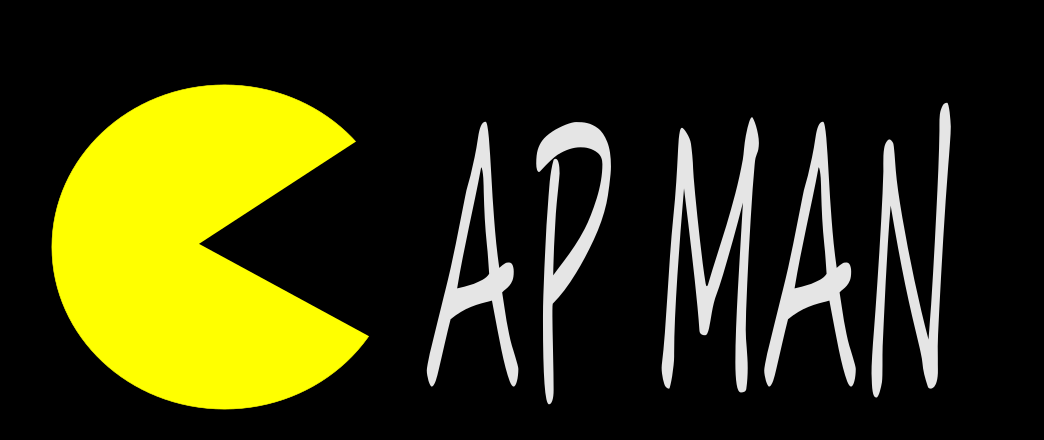
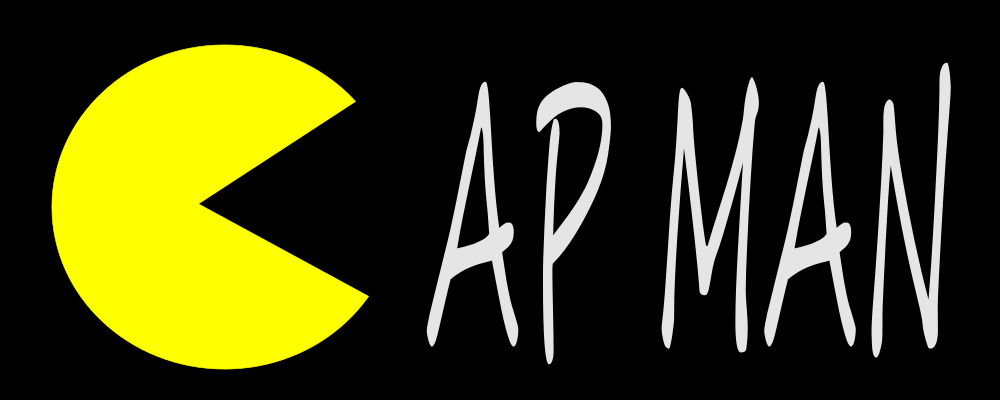
Changes in displaying starting menu and click escape button to go back

diff --git a/src/main.py b/src/main.py
@@ -25,7 +25,7 @@ Win.MARGIN_TOP = Win.GRID_SIZE * round(Win.MARGIN_TOP / Win.GRID_SIZE) - Win.GRI
 Win.screen = pygame.display.set_mode((screen_info.current_w, screen_info.current_h), pygame.FULLSCREEN)
 clock = pygame.time.Clock()
 
-menu = pygame.image.load('../assets/menu/capmantitle.png')
+title = pygame.image.load('../assets/menu/capmantitle.png')
 game_over = pygame.image.load('../assets/menu/game_over.png')
 play_button = pygame.image.load('../assets/menu/play_button.png')
 settings_button = pygame.image.load('../assets/menu/settings_button.png')
@@ -183,7 +183,7 @@ def end_lvl(is_win):
                 pygame.quit()
                 run = False
             if event.type == pygame.KEYDOWN:
-                if event.key == ord('q') or event.key == pygame.K_SPACE or event.key == pygame.K_RETURN or event.key == pygame.K_KP_ENTER or event.key == ord('p'):
+                if event.key == ord('q') or event.key == pygame.K_SPACE or event.key == pygame.K_RETURN or event.key == pygame.K_KP_ENTER or event.key == pygame.K_ESCAPE:
                     run = False
             if event.type == pygame.MOUSEBUTTONDOWN:
                 run = False
@@ -194,7 +194,6 @@ def main_loop():
     ghostScared.set_volume(0)
     soundtrack.set_volume(Settings.volume)
     soundtrack.play(-1)
-    run = True
     lvl.reset()
     points.reset_points(lvl)
     player.rect.center = (Win.MARGIN_LEFT+Win.GRID_SIZE*12.5, Win.MARGIN_TOP+Win.GRID_SIZE*14.5)
@@ -203,13 +202,28 @@ def main_loop():
     Score.score = 0
     Score.bonus = 0
     Score.lives = 3
+
+    width = screen_info.current_w
+    height = screen_info.current_h
+    if width*9 <= height*16:
+        height = width * 9 // 16
+    else:
+        width = height * 16 // 9
+    unit = width//16
+    left_margin = (screen_info.current_w - width) / 2
+    global title, play_button, settings_button, credits_button
+    title = pygame.transform.scale(title, [unit*15//2, unit*3])
+    play_button = pygame.transform.scale(play_button, [unit*4, unit])
+    settings_button = pygame.transform.scale(settings_button, [unit*4, unit])
+    credits_button = pygame.transform.scale(credits_button, [unit*4, unit])
+
+    run = True
     while run:
         Win.screen.fill(Win.BGCOLOR)
-        Win.screen.blit(menu, ((screen_info.current_w - menu.get_width()) // 2, 0))
-        Win.screen.blit(play_button, ((screen_info.current_w - play_button.get_width()) // 2, menu.get_height()))
-        Win.screen.blit(settings_button, ((screen_info.current_w - settings_button.get_width()) // 2, menu.get_height() + play_button.get_height()))
-        Win.screen.blit(credits_button, ((screen_info.current_w - credits_button.get_width()) // 2, menu.get_height() + play_button.get_height() + settings_button.get_height()))
-        ICON_SIZE = (screen_info.current_h - 365) // 4 + 70
+        Win.screen.blit(title, title.get_rect(center=(left_margin+unit*8, unit*3//2)))
+        button_play = Win.screen.blit(play_button, play_button.get_rect(center=(left_margin+unit*8, unit*4)))
+        button_settings = Win.screen.blit(settings_button, settings_button.get_rect(center=(left_margin+unit*8, unit*6)))
+        button_credits = Win.screen.blit(credits_button, credits_button.get_rect(center=(left_margin+unit*8, unit*8)))
 
         pygame.display.update()
         for event in pygame.event.get():
@@ -228,26 +242,21 @@ def main_loop():
                 if event.key == ord('s'):
                     Settings.settings([soundtrack, death_sound])
                 
-                if event.key == ord('q'):
+                if event.key == ord('q') or event.key == pygame.K_ESCAPE:
                     pygame.quit()
                     run = False
 
             if event.type == pygame.MOUSEBUTTONUP:
                 pos = pygame.mouse.get_pos()
-                x = pos[0]
-                y = pos[1]
-                if (x > screen_info.current_w // 3 and x < (screen_info.current_w * 2) // 3):
-                    name_bar_h = (screen_info.current_h * 2) // 5
-                    remaining_h = screen_info.current_h - name_bar_h
-                    if (y < menu.get_height() + play_button.get_height()):
+                if button_play.collidepoint(pos):
+                    lvl_number=options.drawmaps()
+                    while lvl_number!=-1:
+                        game_loop(lvl_number)
                         lvl_number=options.drawmaps()
-                        while lvl_number!=-1:
-                            game_loop(lvl_number)
-                            lvl_number=options.drawmaps()
-                    elif (y < menu.get_height() + play_button.get_height() + settings_button.get_height()):
-                        Settings.settings([soundtrack, death_sound])
-                    else:
-                        Credits.credits()
+                elif button_settings.collidepoint(pos):
+                    Settings.settings([soundtrack, death_sound])
+                elif button_credits.collidepoint(pos):
+                    Credits.credits()
 
 def game_loop(start_lvl):
     main = True
@@ -293,7 +302,7 @@ def game_loop(start_lvl):
                 if event.type == pygame.KEYDOWN:
                     if event.key == ord('p'):
                         pause_game()
-                    if event.key == ord('q'):
+                    if event.key == ord('q') or event.key == pygame.K_ESCAPE:
                         pause_game()
                         main = False
                 if event.type == pygame.MOUSEBUTTONUP:
@@ -347,7 +356,7 @@ def game_loop(start_lvl):
                     player.turn(3)
                 if event.key == ord('p'):
                     pause_game()
-                if event.key == ord('q'):
+                if event.key == ord('q') or event.key == pygame.K_ESCAPE:
                     main = False
             
             if event.type == pygame.MOUSEBUTTONUP:

diff --git a/src/credits.py b/src/credits.py
@@ -5,10 +5,6 @@ import sys
 import webbrowser
 import time
 
-screen_info = pygame.display.Info()
-back_button = pygame.image.load("../assets/ingame_textures/map/yellowarrow.png")
-back_button = pygame.transform.scale(back_button, (80, 80))
-
 class Credits:
     @staticmethod
     def credits():
@@ -27,8 +23,9 @@ class Credits:
         small_font = pygame.font.Font("../assets/fonts/VT323/VT323-Regular.ttf", unit//2)
         Win.screen.fill(Win.BGCOLOR)
         title = pygame.transform.scale(pygame.image.load("../assets/menu/capman_developers.png"), [unit*12, unit*2])
-        Win.screen.blit(title, (unit*2+left_margin, 0))
-        Win.screen.blit(back_button, (15, 15))
+        back_button = pygame.transform.scale(pygame.image.load("../assets/ingame_textures/map/yellowarrow.png"), [unit, unit])
+        button_back = Win.screen.blit(back_button, (0,0))
+        link_buttons = [[Win.screen.blit(title, (unit*2+left_margin, 0)), 'JakubZojdzik/CapMan']]
 
         SPRITE_WIDTH = unit * 8 // 5
         SPRITE_HEIGHT = unit * 8 // 5
@@ -49,14 +46,11 @@ class Credits:
         rect_padding = unit // 10
 
         for rect in rects:
-            pygame.draw.rect(Win.screen, rect[2], Rect(rect[0], rect[1], rect_size[0], rect_size[1]), border_radius=rect_padding*2)
+            link_buttons.append([pygame.draw.rect(Win.screen, rect[2], Rect(rect[0], rect[1], rect_size[0], rect_size[1]), border_radius=rect_padding*2), rect[7]])
             pygame.draw.rect(Win.screen, rect[3], Rect(rect[0]+rect_padding, rect[1]+rect_padding, rect_size[0]-rect_padding*2, rect_size[1]-rect_padding*2), border_radius=rect_padding*2)
             Win.screen.blit(rect[4], (rect[0]-unit*4//5, rect[1]+unit//5))
             Win.screen.blit(font.render(rect[5], True, (0,0,0)), Rect(rect[0]+unit, rect[1], rect_size[0]-unit, unit))
             Win.screen.blit(font.render(rect[6], True, (0,0,0)), Rect(rect[0]+unit, rect[1]+unit*9//10, rect_size[0]-unit, unit))
-        
-        buttons = [[rect[0], rect[1], *rect_size, rect[7]] for rect in rects]
-        buttons.append([unit*2, 0, unit*12, unit*2, 'JakubZojdzik/CapMan'])
 
         open_link_time = 0.0
         opened_link_url = ''
@@ -66,13 +60,12 @@ class Credits:
         while run:
             mouse_pos = pygame.mouse.get_pos()
             link_url = ''
-            for button in buttons:
-                if button[0] <= mouse_pos[0] <= button[0] + button[2] and button[1] <= mouse_pos[1] <= button[1] + button[3]:
-                    link_url = 'github.com/'+button[4]
+            for button in link_buttons:
+                if button[0].collidepoint(mouse_pos):
+                    link_url = 'github.com/'+button[1]
             for event in pygame.event.get():
                 if event.type == pygame.MOUSEBUTTONUP:
-                    pos = pygame.mouse.get_pos()
-                    if pos[0]<=100 and pos[1]<=100:
+                    if button_back.collidepoint(mouse_pos):
                         return
                     if link_url != '':
                         opened_link_url = link_url
@@ -82,19 +75,19 @@ class Credits:
                     pygame.quit()
                     sys.exit()
                 if event.type == pygame.KEYDOWN:
-                    if event.key == pygame.K_LEFT or event.key == ord('q') or event.key == pygame.K_SPACE or event.key == pygame.K_RETURN or event.key == pygame.K_KP_ENTER:
+                    if event.key == pygame.K_LEFT or event.key == ord('q') or event.key == pygame.K_SPACE or event.key == pygame.K_RETURN or event.key == pygame.K_KP_ENTER or event.key == pygame.K_ESCAPE:
                         return
             
-            pygame.draw.rect(Win.screen, Win.BGCOLOR, Rect(0, unit*81/10, unit*16, unit*4/5))
-            if link_url != opened_link_url and link_url != '':
+            pygame.draw.rect(Win.screen, Win.BGCOLOR, Rect(0, unit*81/10, screen_info.current_w, unit*4/5))
+            if link_url != opened_link_url and link_url != '' and time.time() - open_link_time > 2:
                 opened_link_url = ''
-                open_link_time = time.time()
+                open_link_time = 0.0
 
-            if time.time() - open_link_time <= 4 and opened_link_url != '':
+            if time.time() - open_link_time <= 6 and opened_link_url != '':
                 text_img = small_font.render(f'Opened {opened_link_url} in your web browser', True, (255, 255, 255))
-                Win.screen.blit(text_img, text_img.get_rect(center = (unit*8, unit*17//2)))
+                Win.screen.blit(text_img, text_img.get_rect(center = (unit*8+left_margin, unit*17//2)))
             elif link_url != '':
                 text_img = small_font.render(link_url, True, (255, 255, 255))
-                Win.screen.blit(text_img, text_img.get_rect(center = (unit*8, unit*17//2)))
+                Win.screen.blit(text_img, text_img.get_rect(center = (unit*8+left_margin, unit*17//2)))
 
             pygame.display.update()

diff --git a/src/settings.py b/src/settings.py
@@ -123,7 +123,7 @@ class Settings:
                     pygame.quit()
                     sys.exit()
                 if event.type == pygame.KEYDOWN:
-                    if event.key == pygame.K_LEFT or event.key == ord('q') or event.key == pygame.K_SPACE or event.key == pygame.K_RETURN or event.key == pygame.K_KP_ENTER:
+                    if event.key == pygame.K_LEFT or event.key == ord('q') or event.key == pygame.K_SPACE or event.key == pygame.K_RETURN or event.key == pygame.K_KP_ENTER or event.key == pygame.K_ESCAPE:
                         Settings.save_settings()
                         return (Settings.volume, Settings.difficulty)
                     elif event.key == ord('e'):

diff --git a/src/maps.py b/src/maps.py
@@ -69,7 +69,7 @@ class Bigmap:
                     pygame.quit()
                     run = False
                 if event.type == pygame.KEYDOWN:
-                    if event.key == ord('q'):
+                    if event.key == ord('q') or event.key == pygame.K_ESCAPE:
                         return -1
                     if event.key == pygame.K_LEFT:
                         return -1
